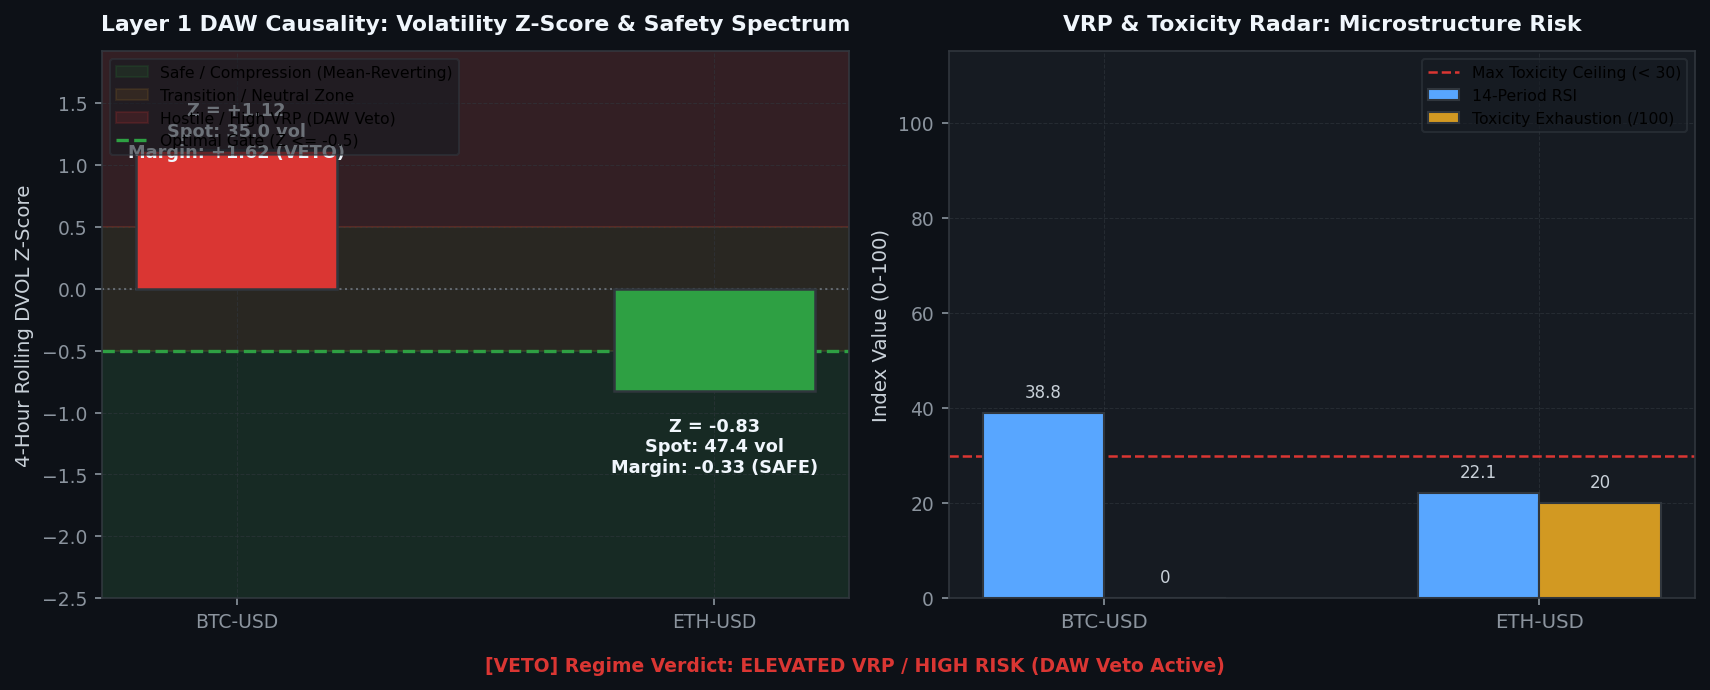
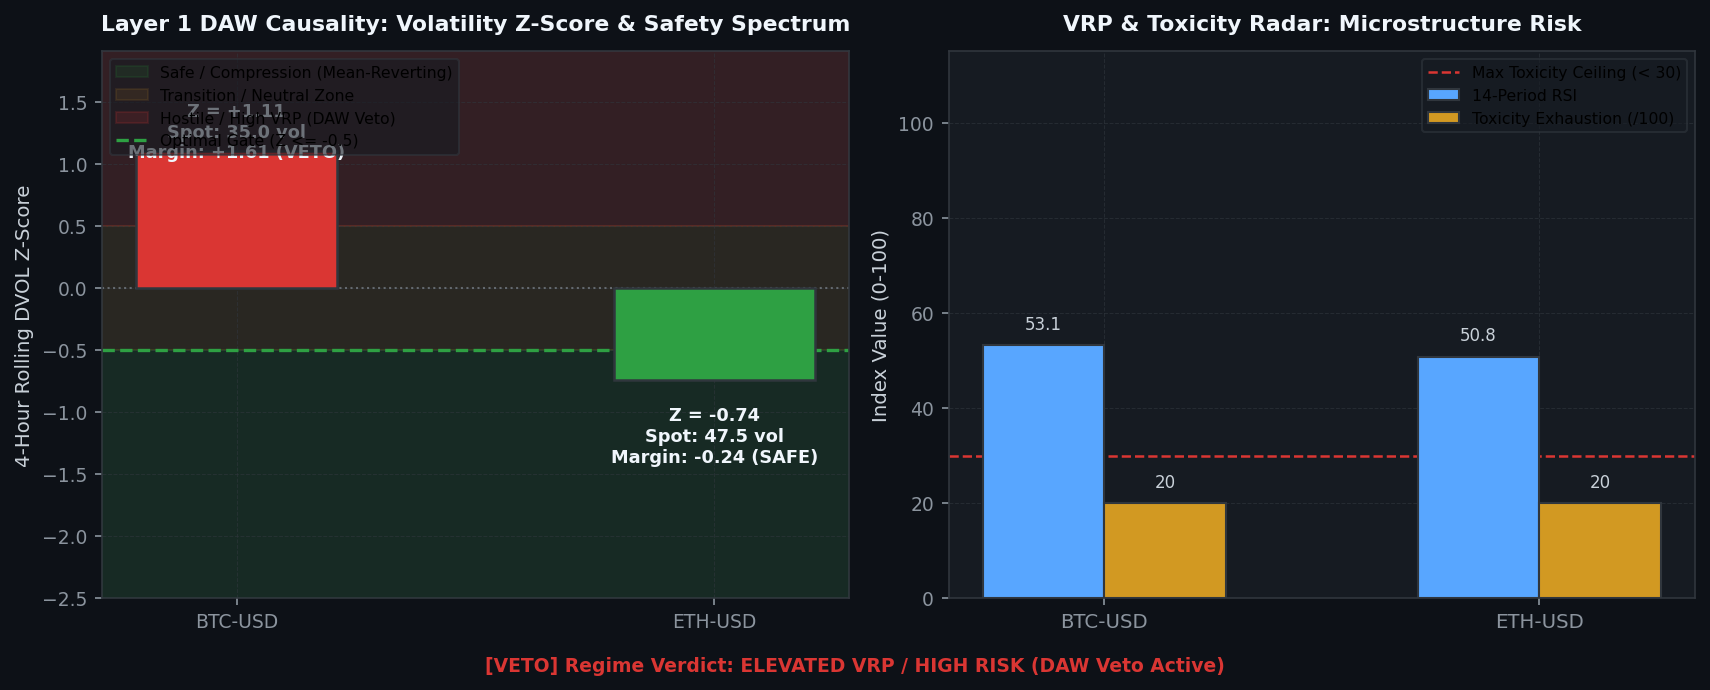
[coinbase] Hourly Status & Visual Intelligence Update: 2026-08-14 10:13:05

diff --git a/coinbase/data/hourly_status_report.md b/coinbase/data/hourly_status_report.md
@@ -1,5 +1,5 @@
 # 🛡 Unified Trading System Hourly Status & Visual Intelligence
-> **Report Generated**: `2026-08-14 09:54:24 AM PDT (2026-08-14 16:54:24 UTC)`  
+> **Report Generated**: `2026-08-14 10:12:46 AM PDT (2026-08-14 17:12:46 UTC)`  
 > **System Health**: **🟡 DEGRADED / RESTRICTED** | **Win Rate**: `0.0%` | **Completed Trades**: `0`
 
 ---
@@ -8,13 +8,13 @@ Real-time Deribit implied volatility (DVOL) proxy tracking against mathematicall
 
 | Symbol | Proxy Oracle | Live Z-Score | Optimal Limit (YSP) | Safety Margin | Live VRP | Optimal VRP (YSP) | DAW Safety Verdict |
 | :--- | :--- | :--- | :--- | :--- | :--- | :--- | :--- |
-| `AVAX-USD` | DVOL_BTC | **+1.12** | **-0.50** | **+1.62** | **+9.83** | 5.0 | 🔴 DAW VETOED |
-| `ETH-USD` | DVOL_ETH | **-0.83** | **-0.50** | **-0.33** | **+22.42** | 5.0 | 🔴 DAW VETOED |
-| `ADA-USD` | DVOL_BTC | **+1.12** | **-0.50** | **+1.62** | **+9.94** | 5.0 | 🔴 DAW VETOED |
-| `DOGE-USD` | DVOL_BTC | **+1.12** | **-0.50** | **+1.62** | **+9.94** | 5.0 | 🔴 DAW VETOED |
-| `BTC-USD` | DVOL_BTC | **+1.12** | **-0.50** | **+1.62** | **+9.94** | 5.0 | 🔴 DAW VETOED |
-| `LINK-USD` | DVOL_BTC | **+1.12** | **-0.50** | **+1.62** | **+9.94** | 5.0 | 🔴 DAW VETOED |
-| `SOL-USD` | DVOL_BTC | **+1.12** | **-0.50** | **+1.62** | **+9.94** | 5.0 | 🔴 DAW VETOED |
+| `AVAX-USD` | DVOL_BTC | **+1.11** | **-0.50** | **+1.61** | **+10.57** | 5.0 | 🔴 DAW VETOED |
+| `ETH-USD` | DVOL_ETH | **-0.74** | **-0.50** | **-0.24** | **+23.07** | 5.0 | 🔴 DAW VETOED |
+| `ADA-USD` | DVOL_BTC | **+1.11** | **-0.50** | **+1.61** | **+10.56** | 5.0 | 🔴 DAW VETOED |
+| `DOGE-USD` | DVOL_BTC | **+1.11** | **-0.50** | **+1.61** | **+10.56** | 5.0 | 🔴 DAW VETOED |
+| `BTC-USD` | DVOL_BTC | **+1.11** | **-0.50** | **+1.61** | **+10.56** | 5.0 | 🔴 DAW VETOED |
+| `LINK-USD` | DVOL_BTC | **+1.11** | **-0.50** | **+1.61** | **+10.56** | 5.0 | 🔴 DAW VETOED |
+| `SOL-USD` | DVOL_BTC | **+1.11** | **-0.50** | **+1.61** | **+10.56** | 5.0 | 🔴 DAW VETOED |
 
 ![DVOL Market Regime](./images/dvol_regime_timeline.png)
 
@@ -44,12 +44,12 @@ We hereby certify that the mission-critical algorithmic data assets uploaded by 
 
 | Status | Data Asset | Freshness / State | Details / Timestamp |
 | :---: | :--- | :--- | :--- |
-| ✅ | **Go-List JSON** | Fresh (26.76h old) | 08-13 07:08 |
-| ✅ | **TimesFM Forecasts** | Fresh (1.88h old) | 08-14 08:02 |
-| ✅ | **Holding Times config** | Fresh (48.25h old) | 08-12 09:39 |
-| ✅ | **BTC DVOL Cache** | Fresh (0.01h old) | 08-14 09:54 |
-| ✅ | **ETH DVOL Cache** | Fresh (0.01h old) | 08-14 09:54 |
-| ✅ | **Live Trading Telemetry** | Fresh (0.00h old) | 08-14 09:54 |
+| ✅ | **Go-List JSON** | Fresh (27.07h old) | 08-13 07:08 |
+| ✅ | **TimesFM Forecasts** | Fresh (2.18h old) | 08-14 08:02 |
+| ✅ | **Holding Times config** | Fresh (48.55h old) | 08-12 09:39 |
+| ✅ | **BTC DVOL Cache** | Fresh (0.00h old) | 08-14 10:12 |
+| ✅ | **ETH DVOL Cache** | Fresh (0.00h old) | 08-14 10:12 |
+| ✅ | **Live Trading Telemetry** | Fresh (0.00h old) | 08-14 10:12 |
 
 <br>
 
@@ -62,7 +62,7 @@ Layer-by-layer tick evaluation waterfall and asset-specific performance tracking
 
 | Funnel Filter Layer | Total Rejections | % of Rejections |
 | :--- | :--- | :--- |
-| Layer 1: DAW Causal Volatility Veto | `17,694` | **100.0%** |
+| Layer 1: DAW Causal Volatility Veto | `18,058` | **100.0%** |
 | Layer 2A: Vol Surface Skew & VRP Gate | `0` | **0.0%** |
 | Layer 2B: DVOL Directional Momentum Bias | `0` | **0.0%** |
 | Layer 2C: KER Efficiency Noise Filter | `0` | **0.0%** |
@@ -111,14 +111,14 @@ Live balance sheet and open maker liquidity positions from Coinbase CDP.
 ## 4. 🤖 Foundation Model MLOps & Pipeline Orchestration
 Weekly Algorithmic Mega Cap selection, Zero-shot multi-step forward return forecasts, and VSTEF parameter grid search status.
 
-- **TimesFM Forecast DB**: 🟢 Updated 1.9h ago (2026-08-14 08:02 AM PDT)
+- **TimesFM Forecast DB**: 🟢 Updated 2.2h ago (2026-08-14 08:02 AM PDT)
 - **Last Weekly VSTEF Optimization**: `2026-08-12 01:22:32 PM PDT`
-- **Next Scheduled VSTEF Run**: `2026-08-16 07:00:00 PM PDT (Monday 02:00 UTC)` (Countdown: **57.1h (2d 9h 5m)**)
+- **Next Scheduled VSTEF Run**: `2026-08-16 07:00:00 PM PDT (Monday 02:00 UTC)` (Countdown: **56.8h (2d 8h 47m)**)
 - **Promoted Parameter Gates**: $Z_{DVOL} \le -0.5$ | Holding Horizon $= 12\text{h}$
 
 ### Algorithmic Mega Cap Selection
 - **Last Run (Confirmation)**: `Never`
-- **Next Scheduled Run**: `2026-08-16 06:00:00 PM PDT (Monday 01:00 UTC)` (Countdown: **56.1h (2d 8h 5m)**)
+- **Next Scheduled Run**: `2026-08-16 06:00:00 PM PDT (Monday 01:00 UTC)` (Countdown: **55.8h (2d 7h 46m)**)
 - **Selected Mega Cap Universe**: `Could not fetch active universe from EC2`
 
 ![TimesFM Forecast Matrix](./images/timesfm_forecast_matrix.png)
@@ -132,19 +132,19 @@ Visualizing the impact of the VSTEF (Volatility-Synchronized Stop-Tightening Exe
 ## 5. 🖥 Multi-Node Infrastructure & Watchdog Matrix
 ```text
 ================================================================================
-   🛡  SFGK FUNNEL GUARDIAN WATCHDOG (HFT ONLY) |  04:54:24 PM
-   CPU:  33.6%  |  MEM:   6.4% (14.4GB / 15.4GB Free)
+   🛡  SFGK FUNNEL GUARDIAN WATCHDOG (HFT ONLY) |  05:12:46 PM
+   CPU:  38.2%  |  MEM:   6.5% (14.4GB / 15.4GB Free)
 ================================================================================
 SERVICE              | PID      | STATUS          | RESTARTS | INFO
 --------------------------------------------------------------------------------
 L3 Consumer          | 2689622  | RUNNING         | -        | Continuous Websocket Feed
-Trader AVAX-USD      | 2755407  | RUNNING         | 215      | Evaluating Funnel/Polling Order
-Trader ETH-USD       | 2755260  | COOL-DOWN       | 215      | Next run in 14.8s
-Trader ADA-USD       | 2755261  | COOL-DOWN       | 215      | Next run in 14.8s
-Trader DOGE-USD      | 2755262  | COOL-DOWN       | 215      | Next run in 14.8s
-Trader BTC-USD       | 2755263  | COOL-DOWN       | 215      | Next run in 14.8s
-Trader LINK-USD      | 2755264  | COOL-DOWN       | 215      | Next run in 14.8s
-Trader SOL-USD       | 2755265  | COOL-DOWN       | 215      | Next run in 14.8s
+Trader AVAX-USD      | 2771150  | RUNNING         | 267      | Evaluating Funnel/Polling Order
+Trader ETH-USD       | 2771042  | COOL-DOWN       | 267      | Next run in 14.8s
+Trader ADA-USD       | 2771043  | COOL-DOWN       | 267      | Next run in 14.8s
+Trader DOGE-USD      | 2771044  | COOL-DOWN       | 267      | Next run in 14.8s
+Trader BTC-USD       | 2771045  | COOL-DOWN       | 267      | Next run in 14.8s
+Trader LINK-USD      | 2771046  | COOL-DOWN       | 267      | Next run in 14.8s
+Trader SOL-USD       | 2771047  | COOL-DOWN       | 267      | Next run in 14.8s
 ================================================================================
 ```
 
